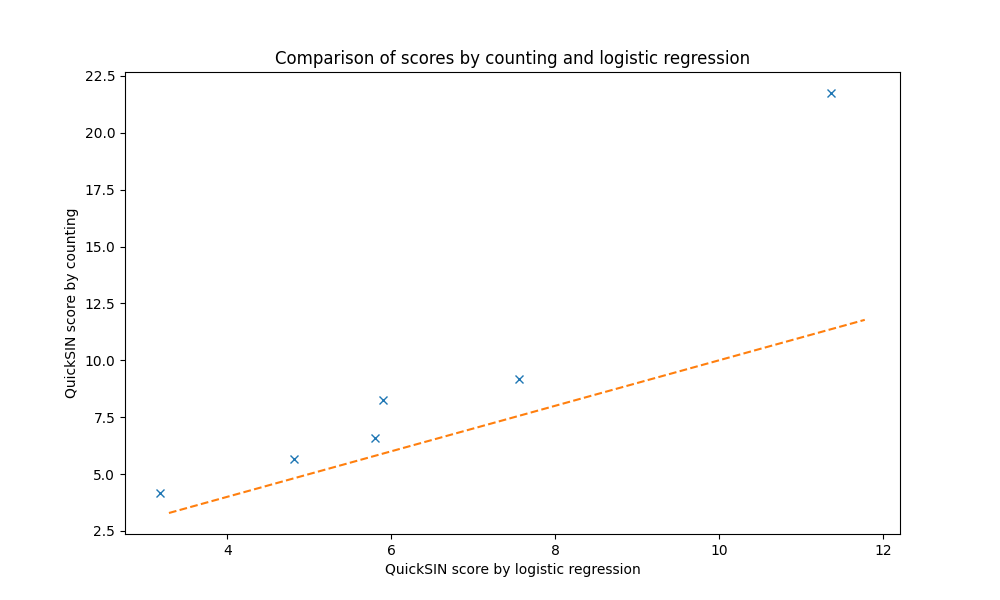
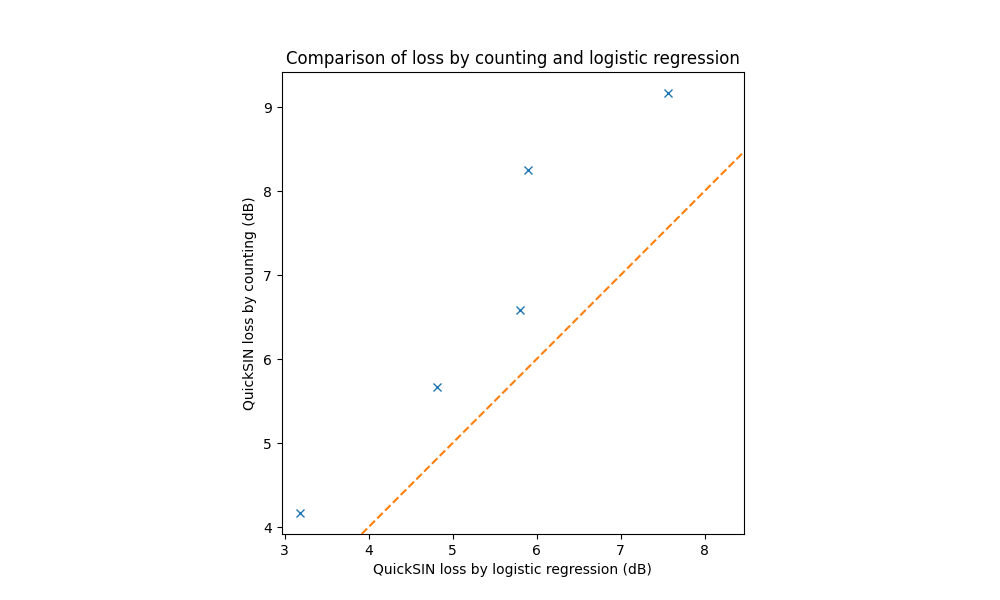
Clean up snr-50 and loss calculation names

diff --git a/google_asr_sin.py b/google_asr_sin.py
@@ -879,7 +879,11 @@ def psychometric_curve(x, c, d):
   return logistic_curve(x, 1, 0, c, d)
 
 
-def find_spin_loss(snrs: List[float], scores: np.ndarray) -> float:
+def compute_quicksin_regression(snrs: List[float],
+                                scores: np.ndarray) -> float:
+  """Use regression to fit a logistic curve to the raw scores (vs. SNR)
+  Return the SNR that gives 50% error.
+  """
   #pylint: disable=unbalanced-tuple-unpacking
   logistic_params, _ = curve_fit(psychometric_curve,
                                  snrs,
@@ -989,16 +993,16 @@ def main(_):
     plt.legend()
     plt.savefig(FLAGS.all_score_graph)
 
-  spin_loss = {}
+  quicksin_regression_loss = {}
   for m in model_frac_scores:
-    spin_loss[m] = find_spin_loss(spin_snrs,
-                                  model_frac_scores[m]) - FLAGS.human_level
+    quicksin_regression_loss[m] = compute_quicksin_regression(
+      spin_snrs, model_frac_scores[m]) - FLAGS.human_level
 
   if FLAGS.spin_logistic_graph:
     fig = plt.figure(figsize=(10, 6))
     ax = fig.add_subplot(111)
-    bar_labels = [s.replace('_', '\n') for s in spin_loss]
-    bar_container = ax.bar(bar_labels, spin_loss.values())
+    bar_labels = [s.replace('_', '\n') for s in quicksin_regression_loss]
+    bar_container = ax.bar(bar_labels, quicksin_regression_loss.values())
     ax.set(ylabel='QuickSIN Loss (dB)',
            title='Cloud ASR QuickSIN Scores (logistic)', ylim=(0, 16))
     ax.bar_label(bar_container)
@@ -1033,7 +1037,7 @@ def main(_):
     plt.title('Logistic Regression for QuickSIN Data')
     plt.savefig(FLAGS.logistic_fit_graph)
 
-  quicksin_counting_scores = {}
+  quicksin_counting_loss = {}
   for m in model_frac_scores:
     # if m == 'latest_short': continue
     # Translate fraction correct into the average number of correct
@@ -1041,15 +1045,15 @@ def main(_):
     scores = model_frac_scores[m]
     assert len(scores) == 6, f'Not enough scores {scores} for model {m}'
     snr50 = 27.5 - 5 * np.sum(model_frac_scores[m])
-    quicksin_counting_scores[m] = snr50 - FLAGS.human_level
+    quicksin_counting_loss[m] = snr50 - FLAGS.human_level
 
   if FLAGS.spin_counting_graph:
     fig = plt.figure(figsize=(10, 6))
     ax = fig.add_subplot(111)
-    bar_labels = [s.replace('_', '\n') for s in quicksin_counting_scores]
+    bar_labels = [s.replace('_', '\n') for s in quicksin_counting_loss]
     bar_container = ax.bar(
       bar_labels,
-      quicksin_counting_scores.values())
+      quicksin_counting_loss.values())
     ax.set(ylabel='QuickSIN Loss (dB)',
            title='Cloud ASR QuickSIN Scores (counting)', ylim=(0, 16))
     ax.bar_label(bar_container)
@@ -1063,10 +1067,14 @@ def main(_):
 
   if FLAGS.logistic_counting_graph:
     plt.clf()
-    plt.plot(spin_loss.values(), quicksin_counting_scores.values(), 'x')
-    plt.xlabel('QuickSIN score by logistic regression')
-    plt.ylabel('QuickSIN score by counting')
-    plt.title('Comparison of scores by counting and logistic regression')
+    # Remove outlier from this comparison
+    quicksin_counting_loss['latest_short'] = np.nan
+    plt.plot(quicksin_regression_loss.values(),
+             quicksin_counting_loss.values(), 'x')
+    plt.xlabel('QuickSIN loss by logistic regression (dB)')
+    plt.ylabel('QuickSIN loss by counting (dB)')
+    plt.title('Comparison of loss by counting and logistic regression')
+    plt.axis('square')
     current_axis = plt.axis()
     print(current_axis)
     left = max(current_axis[0], current_axis[2])

diff --git a/README.md b/README.md
@@ -10,12 +10,12 @@ to evaluate modern DNN-based speech recognition system.
 The QuickSIN test measures human speech in noise abilities, which are impacted by
 a number of factors including peripheral sensitivities, neural issues such 
 as synaptopathy, and any number of cognitive issues. The QuickSIN test scores
-human subjects from normal, to mildly , moderately, 
-and then severly impaired based upon 
+human subjects from normal, to mildly, moderately, 
+and then severely impaired based upon 
 the signal-to-noise ratio (SNR) where the subject correctly recognizes 50% 
 of the keywords.
 We demonstrate that a modern recognizer, built using millions of hours of 
-unsupervised training data, achieves near-normal recognition in noise when
+unsupervised training data, achieves near-normal recognition in noise
 with this human test.
 
 ## Introduction
@@ -66,9 +66,12 @@ One recent example of the new unsupervised models for speech is the
 to capture the speech signal. 
 This system is now available commercially as a system called
 [Chirp](https://cloud.google.com/speech-to-text/v2/docs/chirp-model)
-and is the focus of this test.  Other commercial entities have similar 
-technology and our goal is not to perform a bakeoff, but to demonstrate
-current abilities, and make the QUickSIN tools available to others.
+and is the focus of this test.  
+
+Most importantly, our goal is *not* to perform a bakeoff.
+Other commercial entities have similar 
+technology [Radford2023] and we want to demonstrate
+current abilities, and make the QuickSIN tools available to others.
 
 ## Implementation
 
@@ -102,20 +105,25 @@ equal to "Tear a",
 while "sheet" and "sheep" or "chart" and "charts" are scored as a miss.
 
 This score (the number of correctly identified words over all 6 sentences)
-is converted into an SNR-50 (the SNR which gives 50% accuracy) and then
-SNR-Loss.
+is converted into an SNR-50 (the SNR which gives 50% accuracy)
+as follows [Etymotic2001]:
 ```
 The QuickSIN has five words per step and 5 dB per step. Our highest SNR is
 25 dB so we take 25 + 2.5 = 27.5 minus the total number of words repeated 
 correctly. This gives what we call SNR-50, the signal-to-noise ratio required
 for the patient to repeat 50% of the words correctly.
 ```
-Furthermore
+Furthermore this is converted into SNR Loss (compared to normal human listeners)
 ```
 Since SNR-50 for normal-hearing persons is 2 dB, we subtract 2 dB to 
 derive the formula for a patient's SNR LOSS: 25.5 – (Total words correct 
 in 6 sentences)
 ```
+We report SNR-Loss in this paper.
+
+With a computer implementation of this test we can easily fit a logistic 
+curve to the performance data and thus get a more accurate estimate of the 
+SNR-50.  We compute the SNR-50 both ways.
 
 ## Results
 The QuickSIN test gives us the number of keywords (up to 5) correctly 
@@ -137,3 +145,31 @@ speech reception threshold.
 
 ![QuickSIN score by logistic regression](results/spin_logistic_graph.png)
 ![QuickSIN score by counting](results/spin_counting_graph.png)
+
+The SNR-50 score differs depending on whether it is calculated by the
+conventional counting approach or via logistic regression.
+This difference is systematic and is shown in the scatter plot below.
+We see a 1 to 2dB upward shift (pessimism) in the results 
+using the counting algorithm.
+While the regression method has a firmer statistical basis, we compare results
+using the counting method since that is what conventionally defines the 
+normal, mild, moderate, and severely impaired limits.
+
+![QuickSIN comparison via counting and regression](results/logistic-counting-comparison.png
+)
+
+This study has a number of caveats. Most importantly, the speech recognition
+system has no sense of speaker identity or other aspects of auditoruy scene
+analysis. A human listener might attend more closely to the foreground
+speach, and thus more easily ignore the background noise.  
+Similarly, the speech recognition system is assuming a much wider vocabulary
+than one might expect in an audiology booth.
+(In some cases we had to look up the recognized token
+to see that it really was a word.) Finally, we took an especially firm stance
+on similar words, which is good for reproducibility, but might not be how
+human audiologists score it in a real-time test.
+
+At this point, even an ASR engine trained with 12M hours of speech is still
+showing performance in noise that is moderately impaired. But we do hope the
+QuickSIN test we propose here will allow speech recognition engineers to
+iterate towards a better solution.
